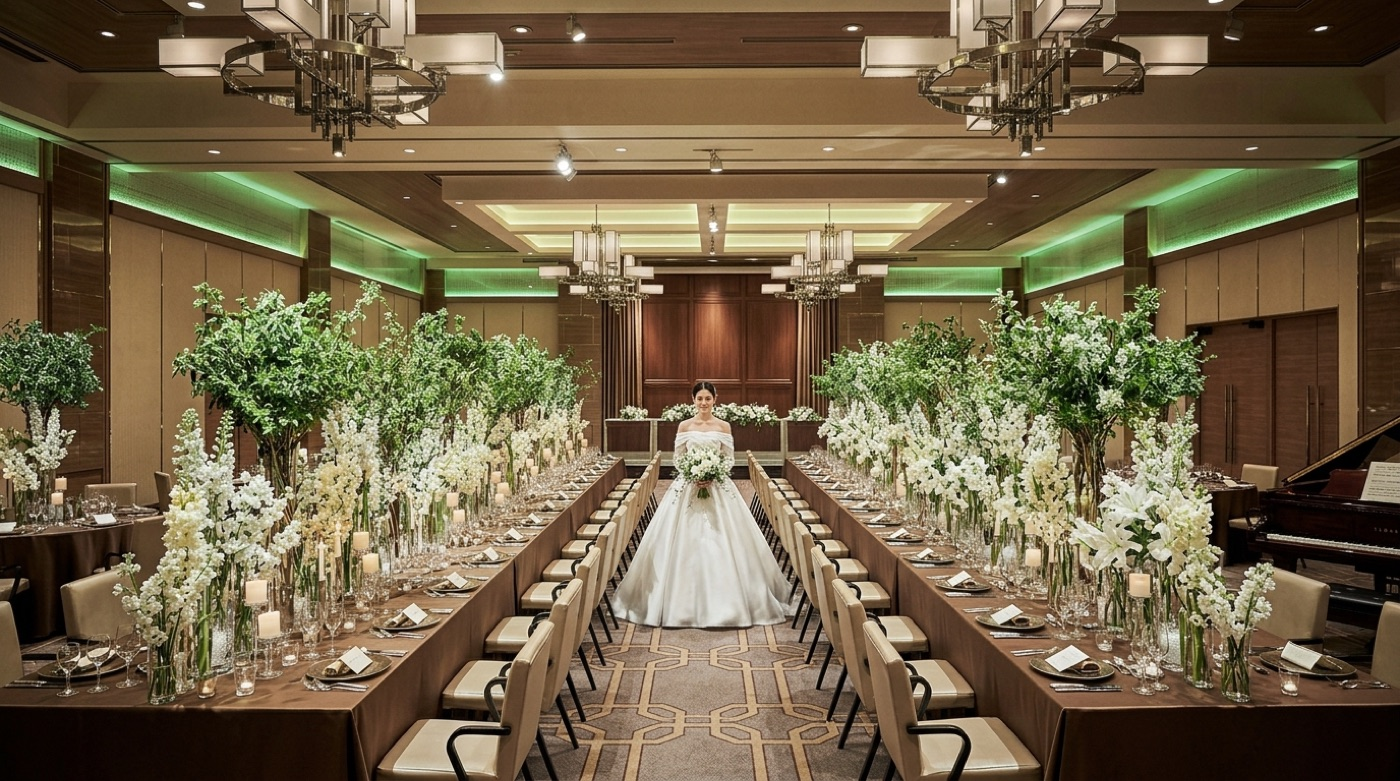
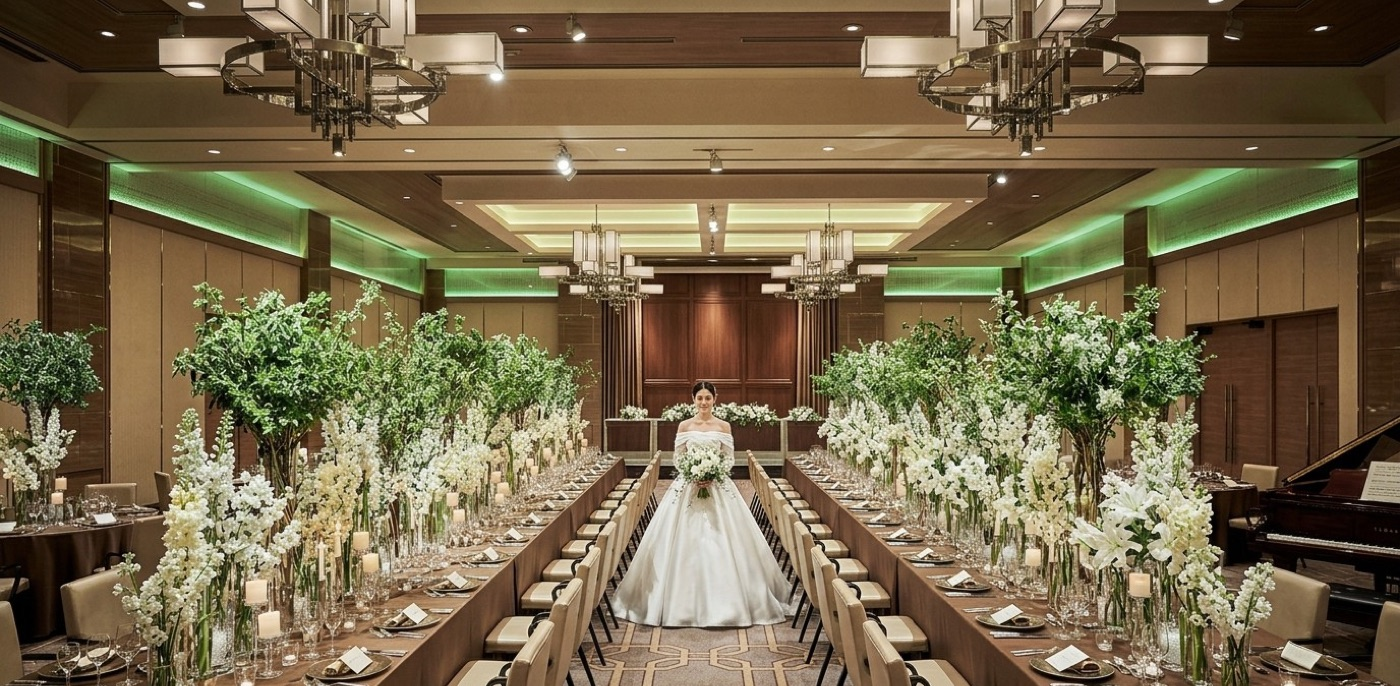
MVスライドの人物が隠れないよう素材を切り直す
挙式・披露宴・乾杯の3枚とも、顔がプレート（FVの上から約55%を占める）の裏に
入っていた。横位置素材を3:4で受けると横しかトリミングされないため
`object-position` では上下に動かせず、素材そのものを切り直した。

- 挙式: 花嫁の位置に寄せて 937x1250 で切り出し
- 披露宴: 下12%を落として花嫁の頭を高さ60%へ
- 乾杯: 下25%を落として新郎新婦の頭を高さ60%へ

同じ失敗を繰り返さないよう、型と指示書に「FVのスライド素材は人物を下半分に置く」
制約を明記した。

diff --git a/apps/lp/clients/pattern-c.types.ts b/apps/lp/clients/pattern-c.types.ts
@@ -127,6 +127,11 @@ export interface PatternCConfig {
      * 2枚目以降のヒーロー写真。渡すと `hero` を1枚目としたスライドショーになる
      * （CSSのみのクロスフェード＋微速ズーム。JSは使わない）。
      * 全カットが同じトリミングで成立する必要があるので、寄りと引きを混ぜないこと。
+     *
+     * **人物は必ず写真の下半分に置くこと。** `framed` のプレートがFVの上から約55%を
+     * 覆うため、顔がそれより上にあると隠れる。横位置素材を縦長で受けると横しか
+     * トリミングされず `position` では上下に動かせないので、素材側を切り直すしかない
+     * （実際に3枚とも顔が隠れて切り直した）。
      */
     heroSlides?: Slot[];
     /** ヒーロー写真のアスペクト比。既定 "3 / 4"。横位置素材なら "1 / 1" 等に緩める。 */
